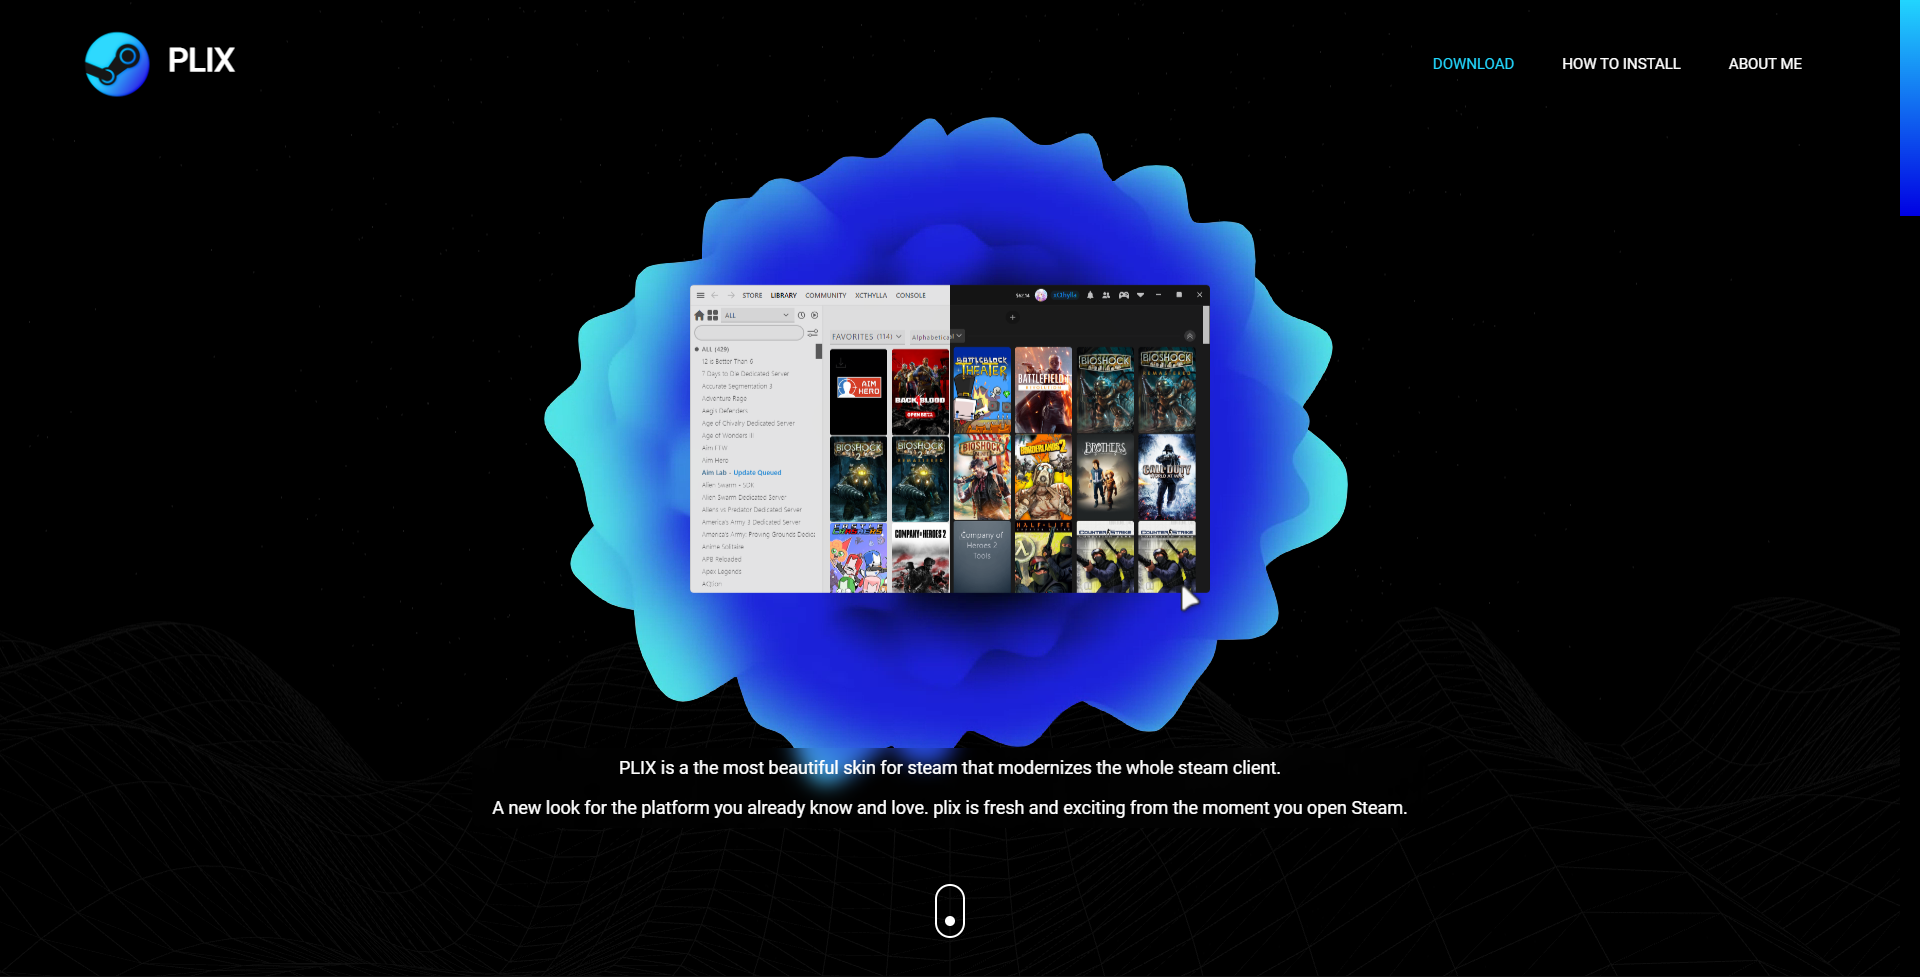
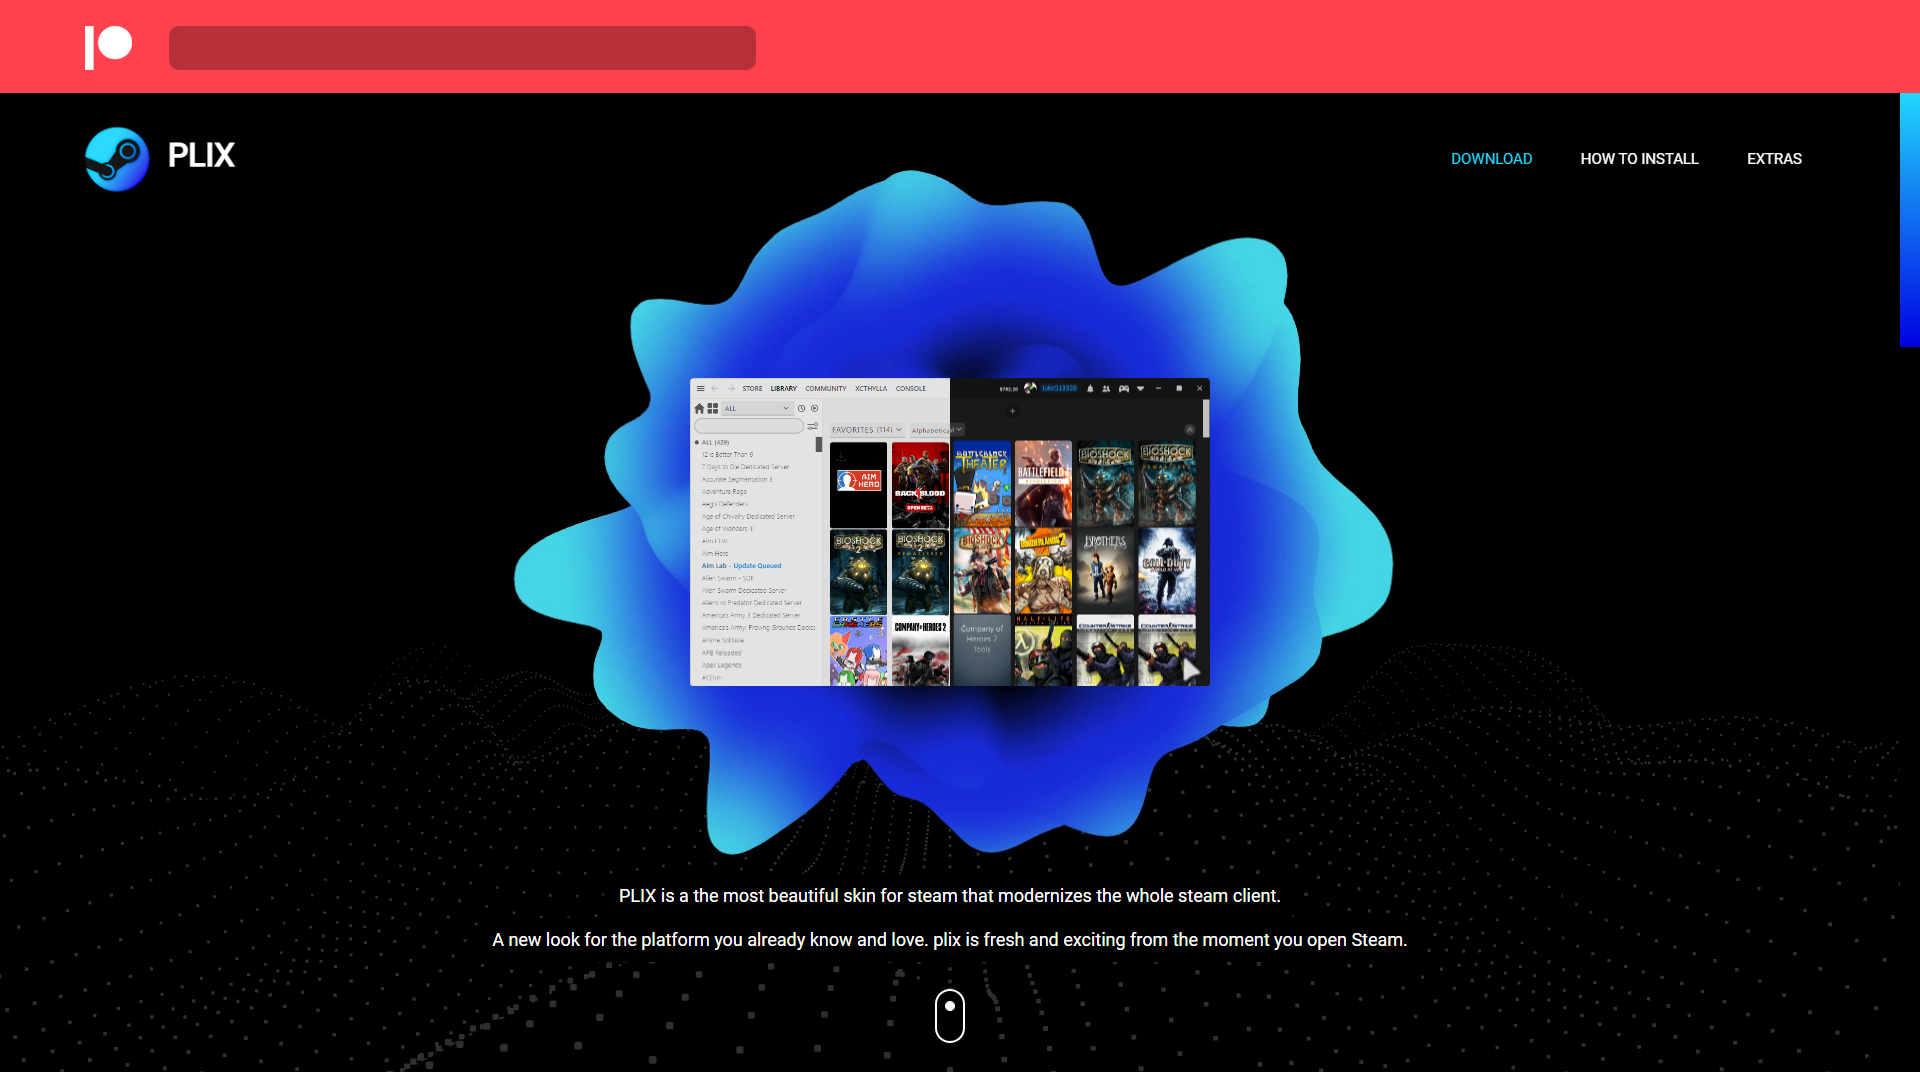
1

diff --git a/assets/main.css b/assets/main.css
@@ -1281,7 +1281,6 @@ button {
 
 .extras {
     margin-top:200px;
-    /* text-align:center; */
 }
 
 .extras ul {
@@ -1289,8 +1288,6 @@ button {
 }
 
 .inner_content4 {
-    /* align-items:center;
-    justify-content:center; */
     position:relative;
     width:900px;
     display:block;

diff --git a/README.md b/README.md
@@ -1,6 +1,3 @@
-<H2><img src="patreon.png"
-     alt="patreon_logo"
-     style="width:20px;height:20px"
-      /> https://www.patreon.com/PlixForSteam</H2> <img src="PLIXFORSTEAM.png"
+<H2>https://www.patreon.com/PlixForSteam</H2> <img src="PLIXFORSTEAM.png"
      alt="PLIXFORSTEAM"/>
 <br>
